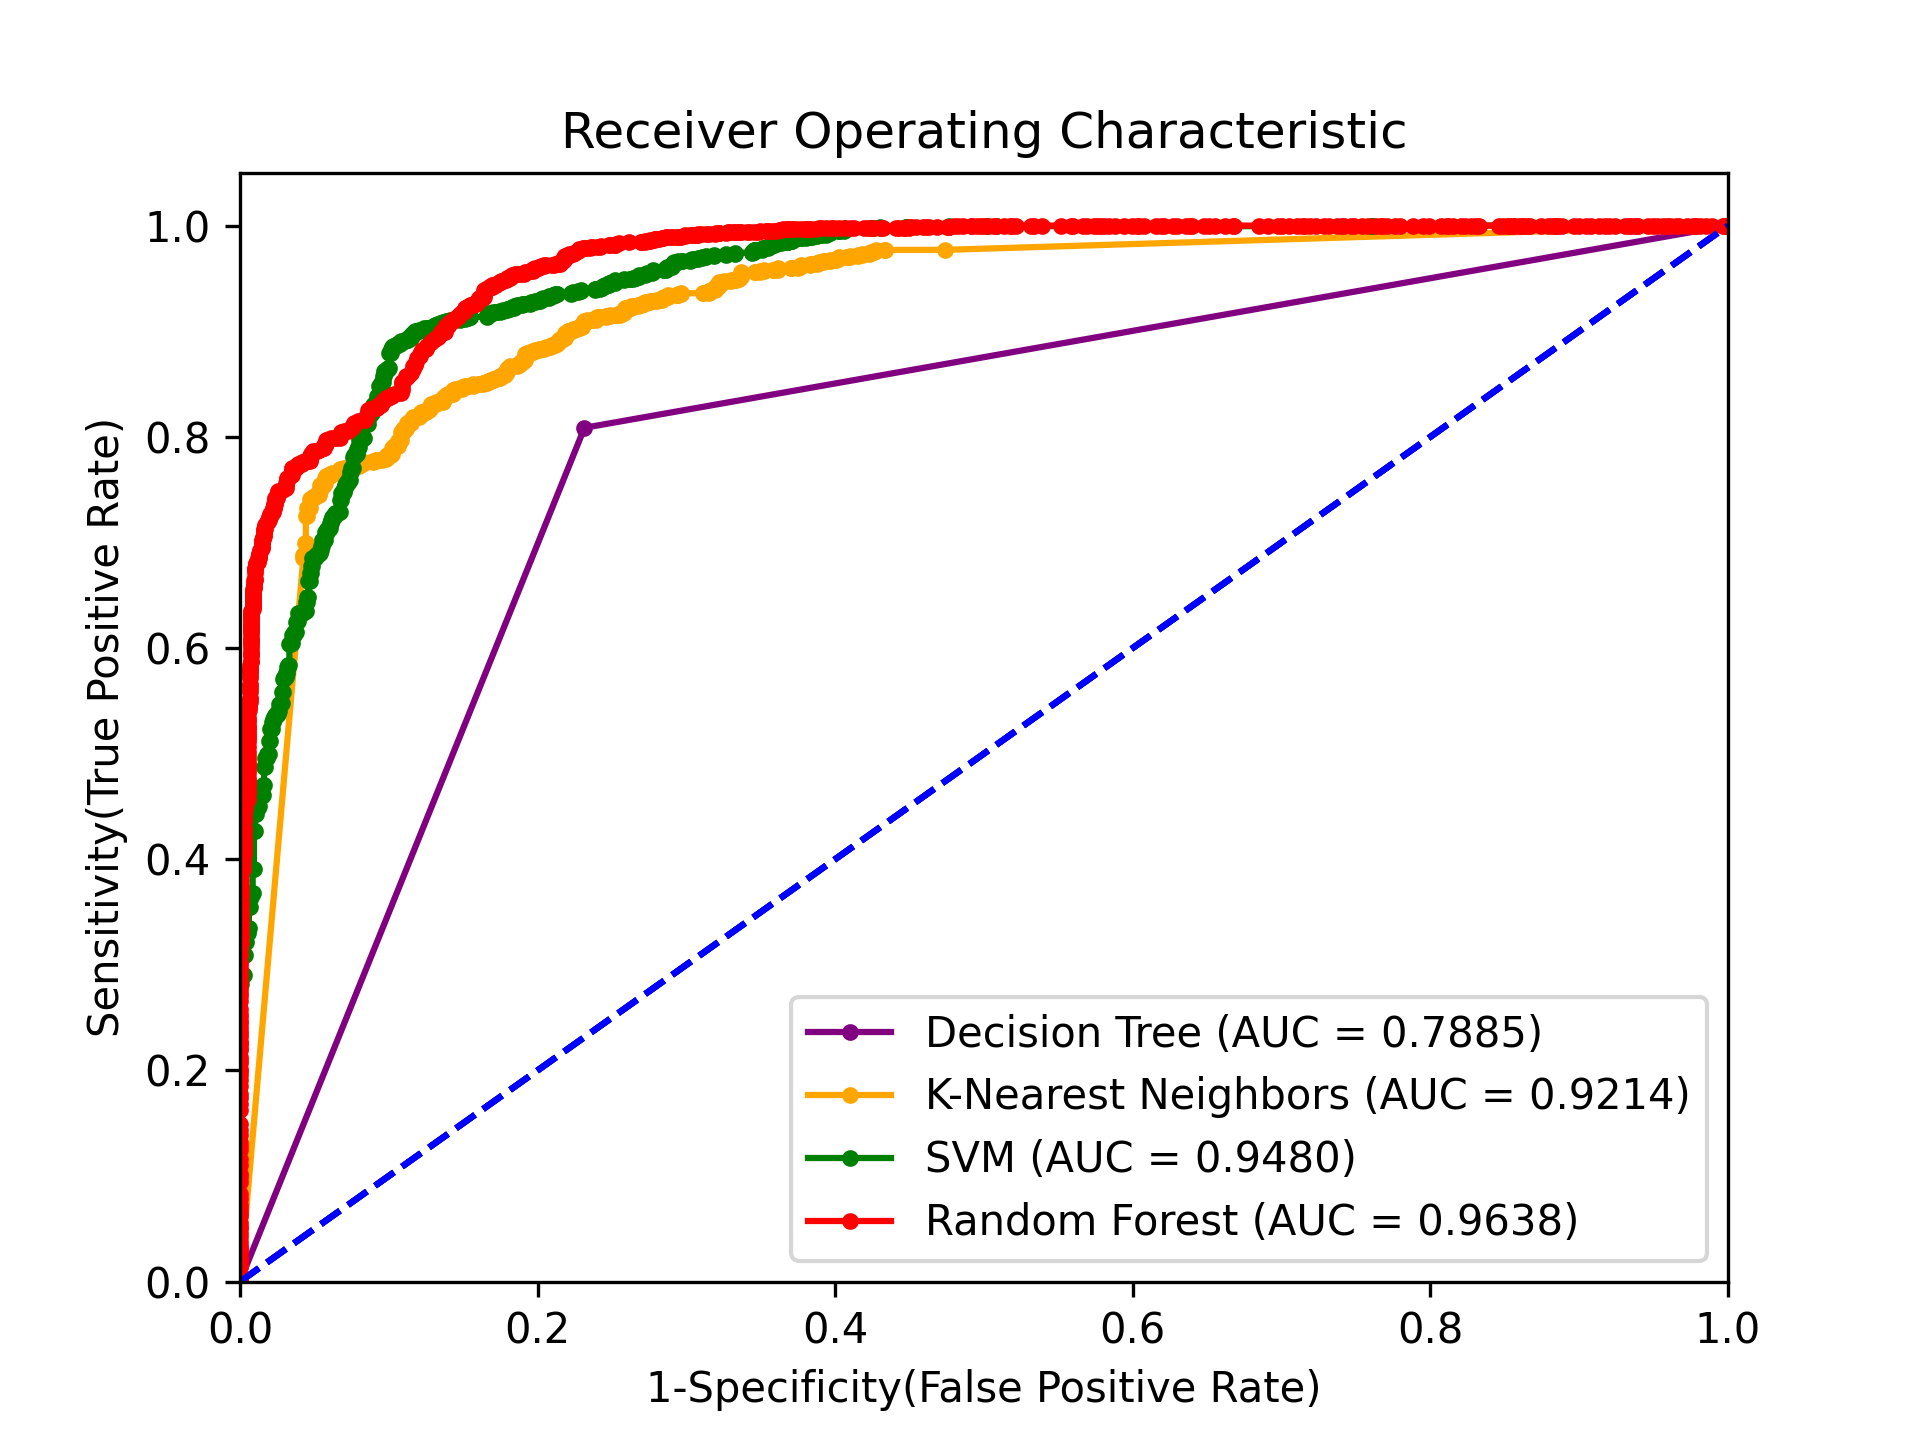
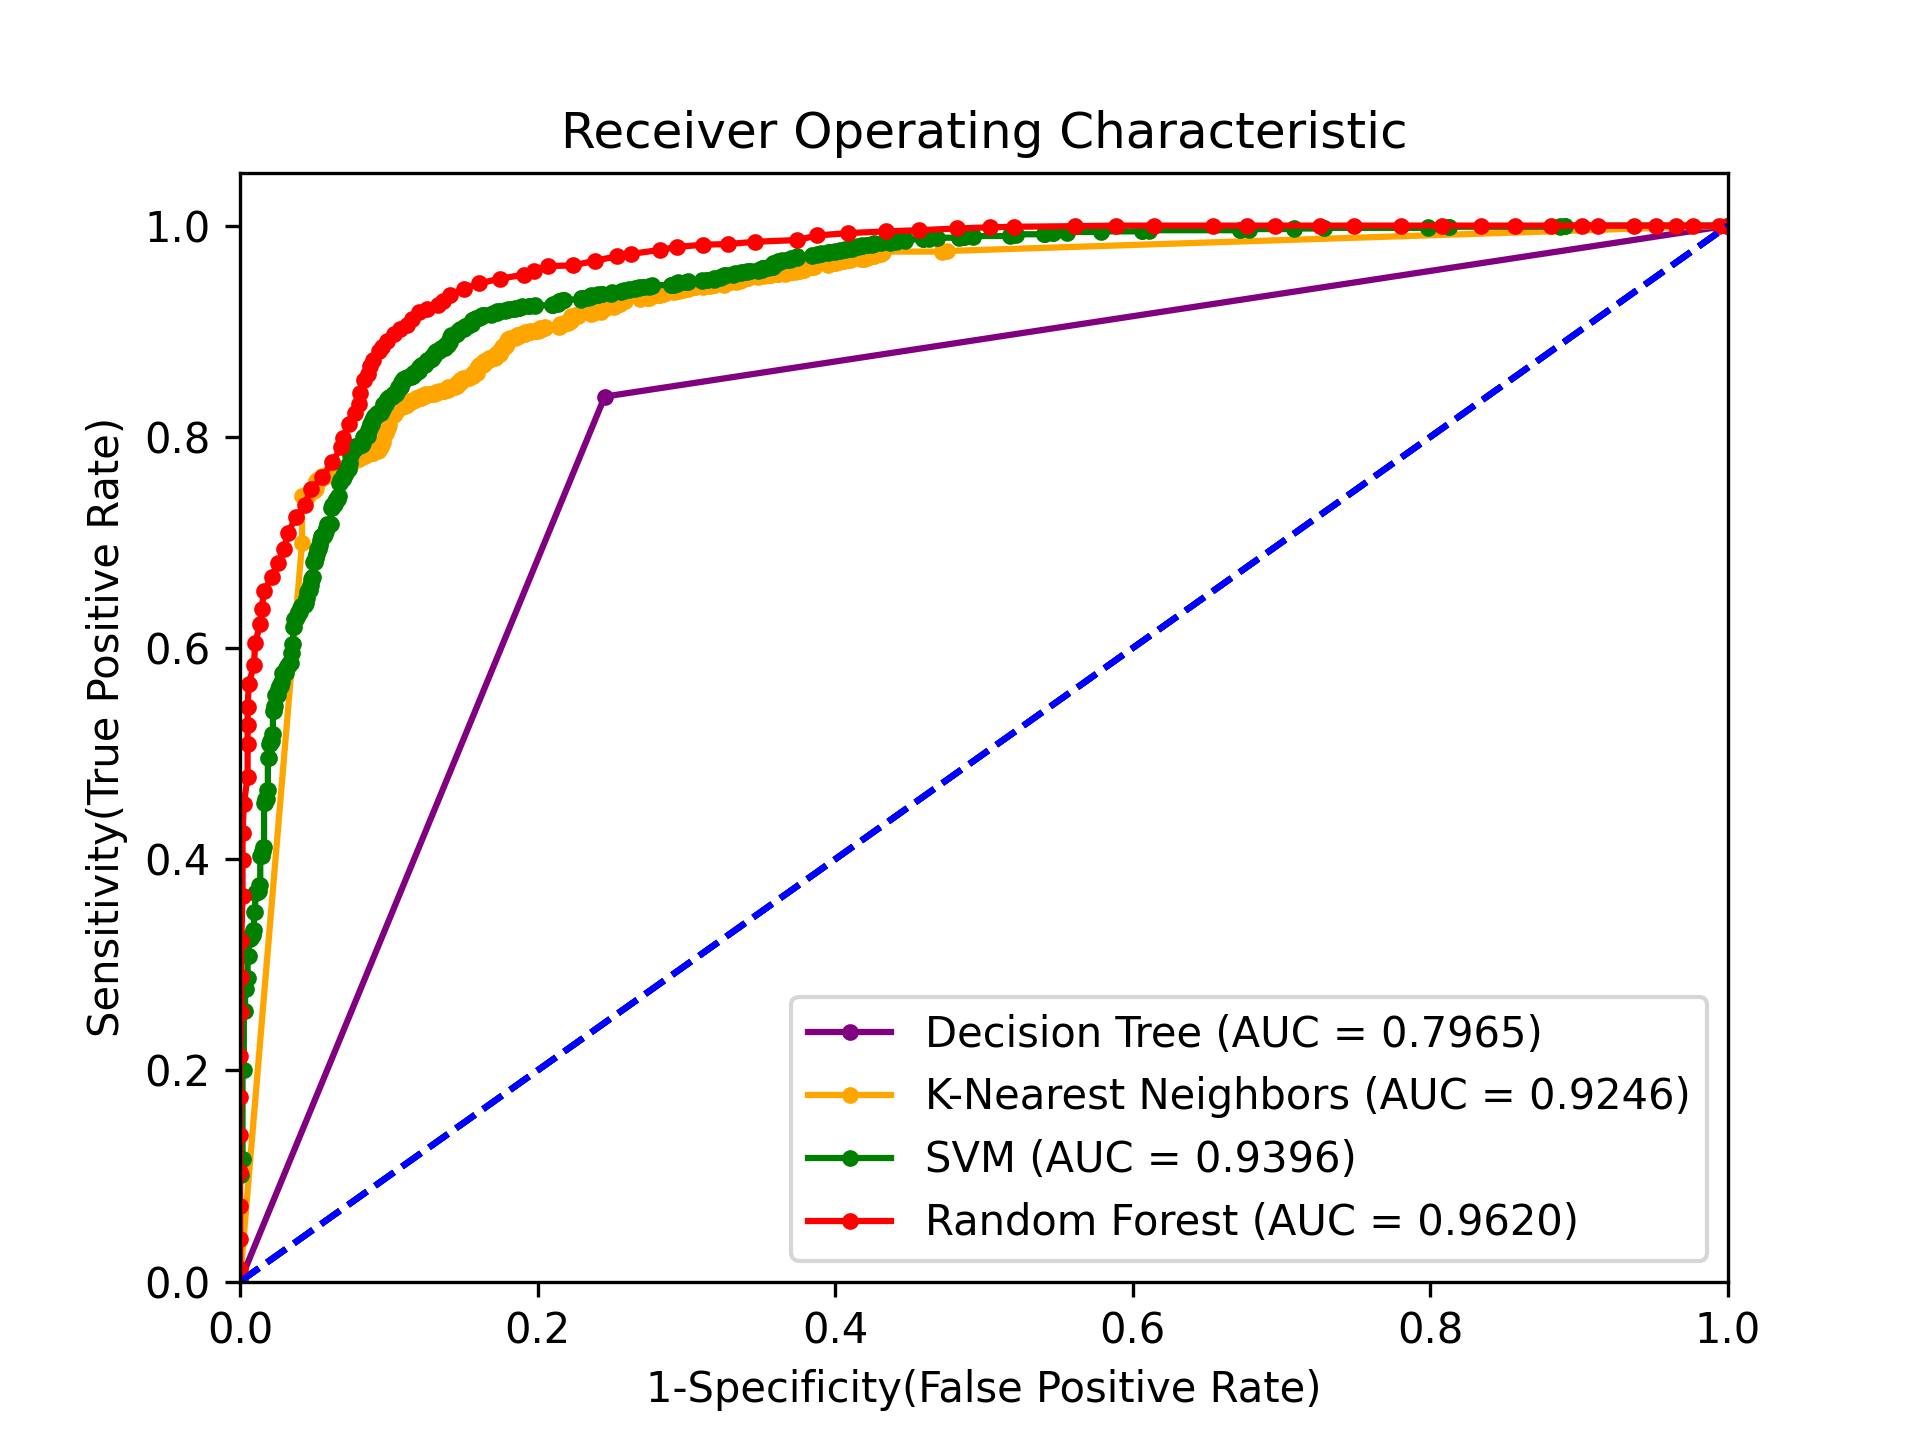
.

diff --git a/check.py b/check.py
@@ -1,0 +1,31 @@
+import os
+import networkx as nx
+from glob import glob
+from compress import load_graph
+from tqdm import tqdm
+from joblib import Parallel, delayed
+from multiprocessing import cpu_count
+
+
+paths = glob('data/psi_graph/benign/*.txt')
+
+
+def check(path):
+    global count
+    graph = load_graph(path)
+    sg_path = path.replace('psi_graph', 'subgraphs').replace(
+        '.txt', '.edgelist')
+    if not os.path.exists(sg_path):
+        return 0
+    sg = nx.read_edgelist(sg_path, create_using=nx.MultiDiGraph)
+
+    if len(graph.nodes) == len(sg.nodes):
+        os.remove(sg_path)
+        return 1
+    else:
+        return 0
+
+
+output = Parallel(n_jobs=cpu_count())(delayed(check)(path)
+                                      for path in tqdm(paths))
+print(sum(output))

diff --git a/compress.py b/compress.py
@@ -112,20 +112,19 @@ def run(G: nx.MultiDiGraph):
 
 
 if __name__ == '__main__':
-    graph_paths = sorted(glob('data/psi_graph/*/*.txt'))
+    graph_paths = sorted(glob('data/psi_graph/benign/*.txt'))
 
     for path in graph_paths:
         print(path)
         subgraph_path = path.replace(
             'psi_graph', 'subgraphs').replace('.txt', '.edgelist')
-        G = load_graph(path)
-
-        if len(G.nodes) <= 20:
-            os.remove(subgraph_path)
-            nx.write_edgelist(G, subgraph_path)
+        if glob(subgraph_path):
             continue
 
-        if glob(subgraph_path):
+        G = load_graph(path)
+        if len(G.nodes) <= 20:
+            print('_')
+            nx.write_edgelist(G, subgraph_path)
             continue
 
         the_best, t = run(G)

diff --git a/Classifiers.py b/Classifiers.py
@@ -93,7 +93,7 @@ class Classifiers:
         roc_auc = dict(sorted(roc_auc.items(), key=lambda k: k[1][0]))
         for name, color in zip(roc_auc, COLORS):
             auc, fpr, tpr = roc_auc[name]
-            plt.plot(fpr, tpr, color=color, marker='.',
+            plt.plot(fpr, tpr, color=color, marker='-',
                      label="%s (AUC = %0.4f)" % (name, auc))
             plt.plot([0, 1], [0, 1], "b--")
             plt.xlim([0.0, 1.0])
